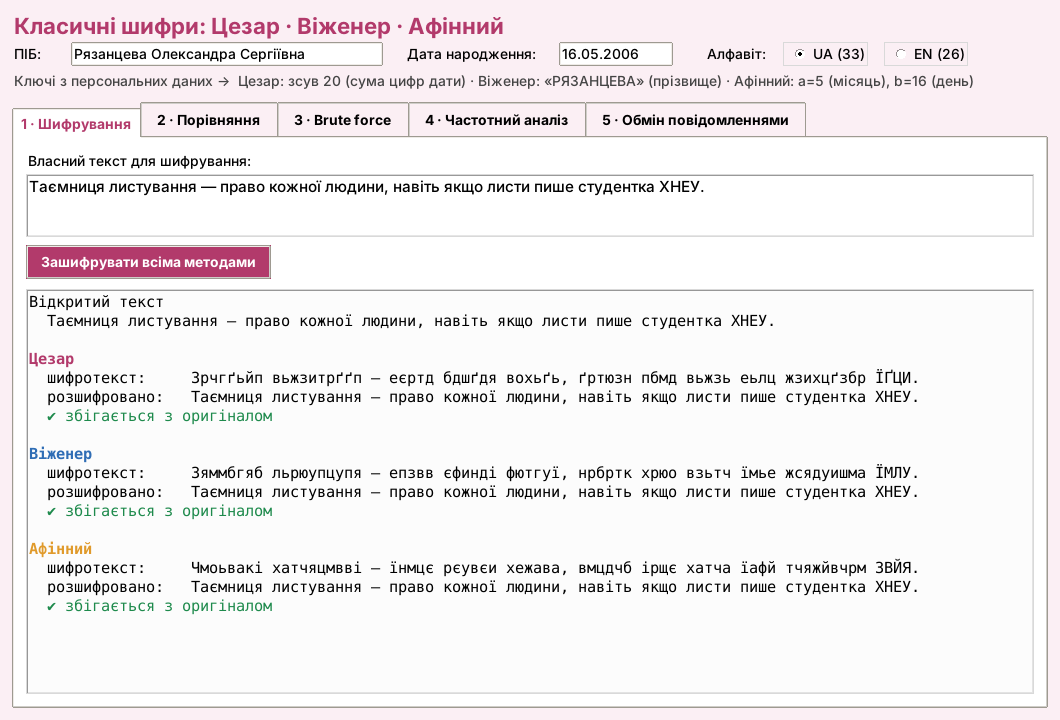
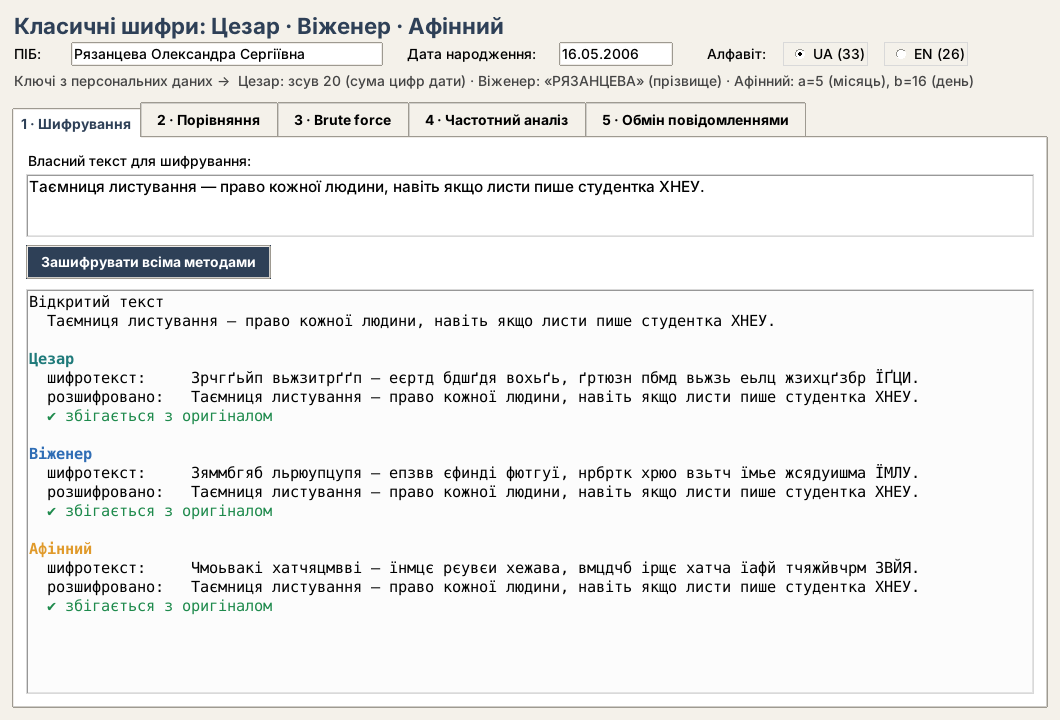
Add files via upload

diff --git a/lab02/app.py b/lab02/app.py
@@ -27,9 +27,9 @@ TEXT_UA = ("Таємниця листування — право кожної л
            "пише студентка ХНЕУ.")
 TEXT_EN = "Secret letters keep our friendship safe from strangers."
 
-ACCENT = "#B23A6B"      # основний колір інтерфейсу
-SOFT = "#FBEFF4"        # світле тло
-COLORS = {"Відкритий текст": "#7A7A7A", "Цезар": "#B23A6B",
+ACCENT = "#2E4057"      # основний колір інтерфейсу
+SOFT = "#F4F1EA"        # світле тло
+COLORS = {"Відкритий текст": "#7A7A7A", "Цезар": "#1F7A7A",
           "Віженер": "#2F6DB5", "Афінний": "#E09A2B"}
 RESULTS = Path(__file__).parent / "results"
 
@@ -68,7 +68,7 @@ class CipherApp(tk.Tk):
                     font=("Segoe UI", 16, "bold"))
         s.configure("Accent.TButton", background=ACCENT, foreground="white",
                     font=("Segoe UI", 10, "bold"), padding=(12, 5))
-        s.map("Accent.TButton", background=[("active", "#8E2C55")])
+        s.map("Accent.TButton", background=[("active", "#1E2B3B")])
         s.configure("Treeview", rowheight=24, font=("Consolas", 10))
         s.configure("Treeview.Heading", font=("Segoe UI", 10, "bold"))
 
@@ -141,7 +141,7 @@ class CipherApp(tk.Tk):
         self.brute.column("Зсув", width=60, anchor="center")
         self.brute.column("χ²", width=130, anchor="center")
         self.brute.column("Кандидат", width=780)
-        self.brute.tag_configure("best", background="#FFE3EE")
+        self.brute.tag_configure("best", background="#EDE4D3")
         sb = ttk.Scrollbar(f, command=self.brute.yview)
         self.brute.configure(yscrollcommand=sb.set)
         self.brute.pack(side="left", fill="both", expand=True)
